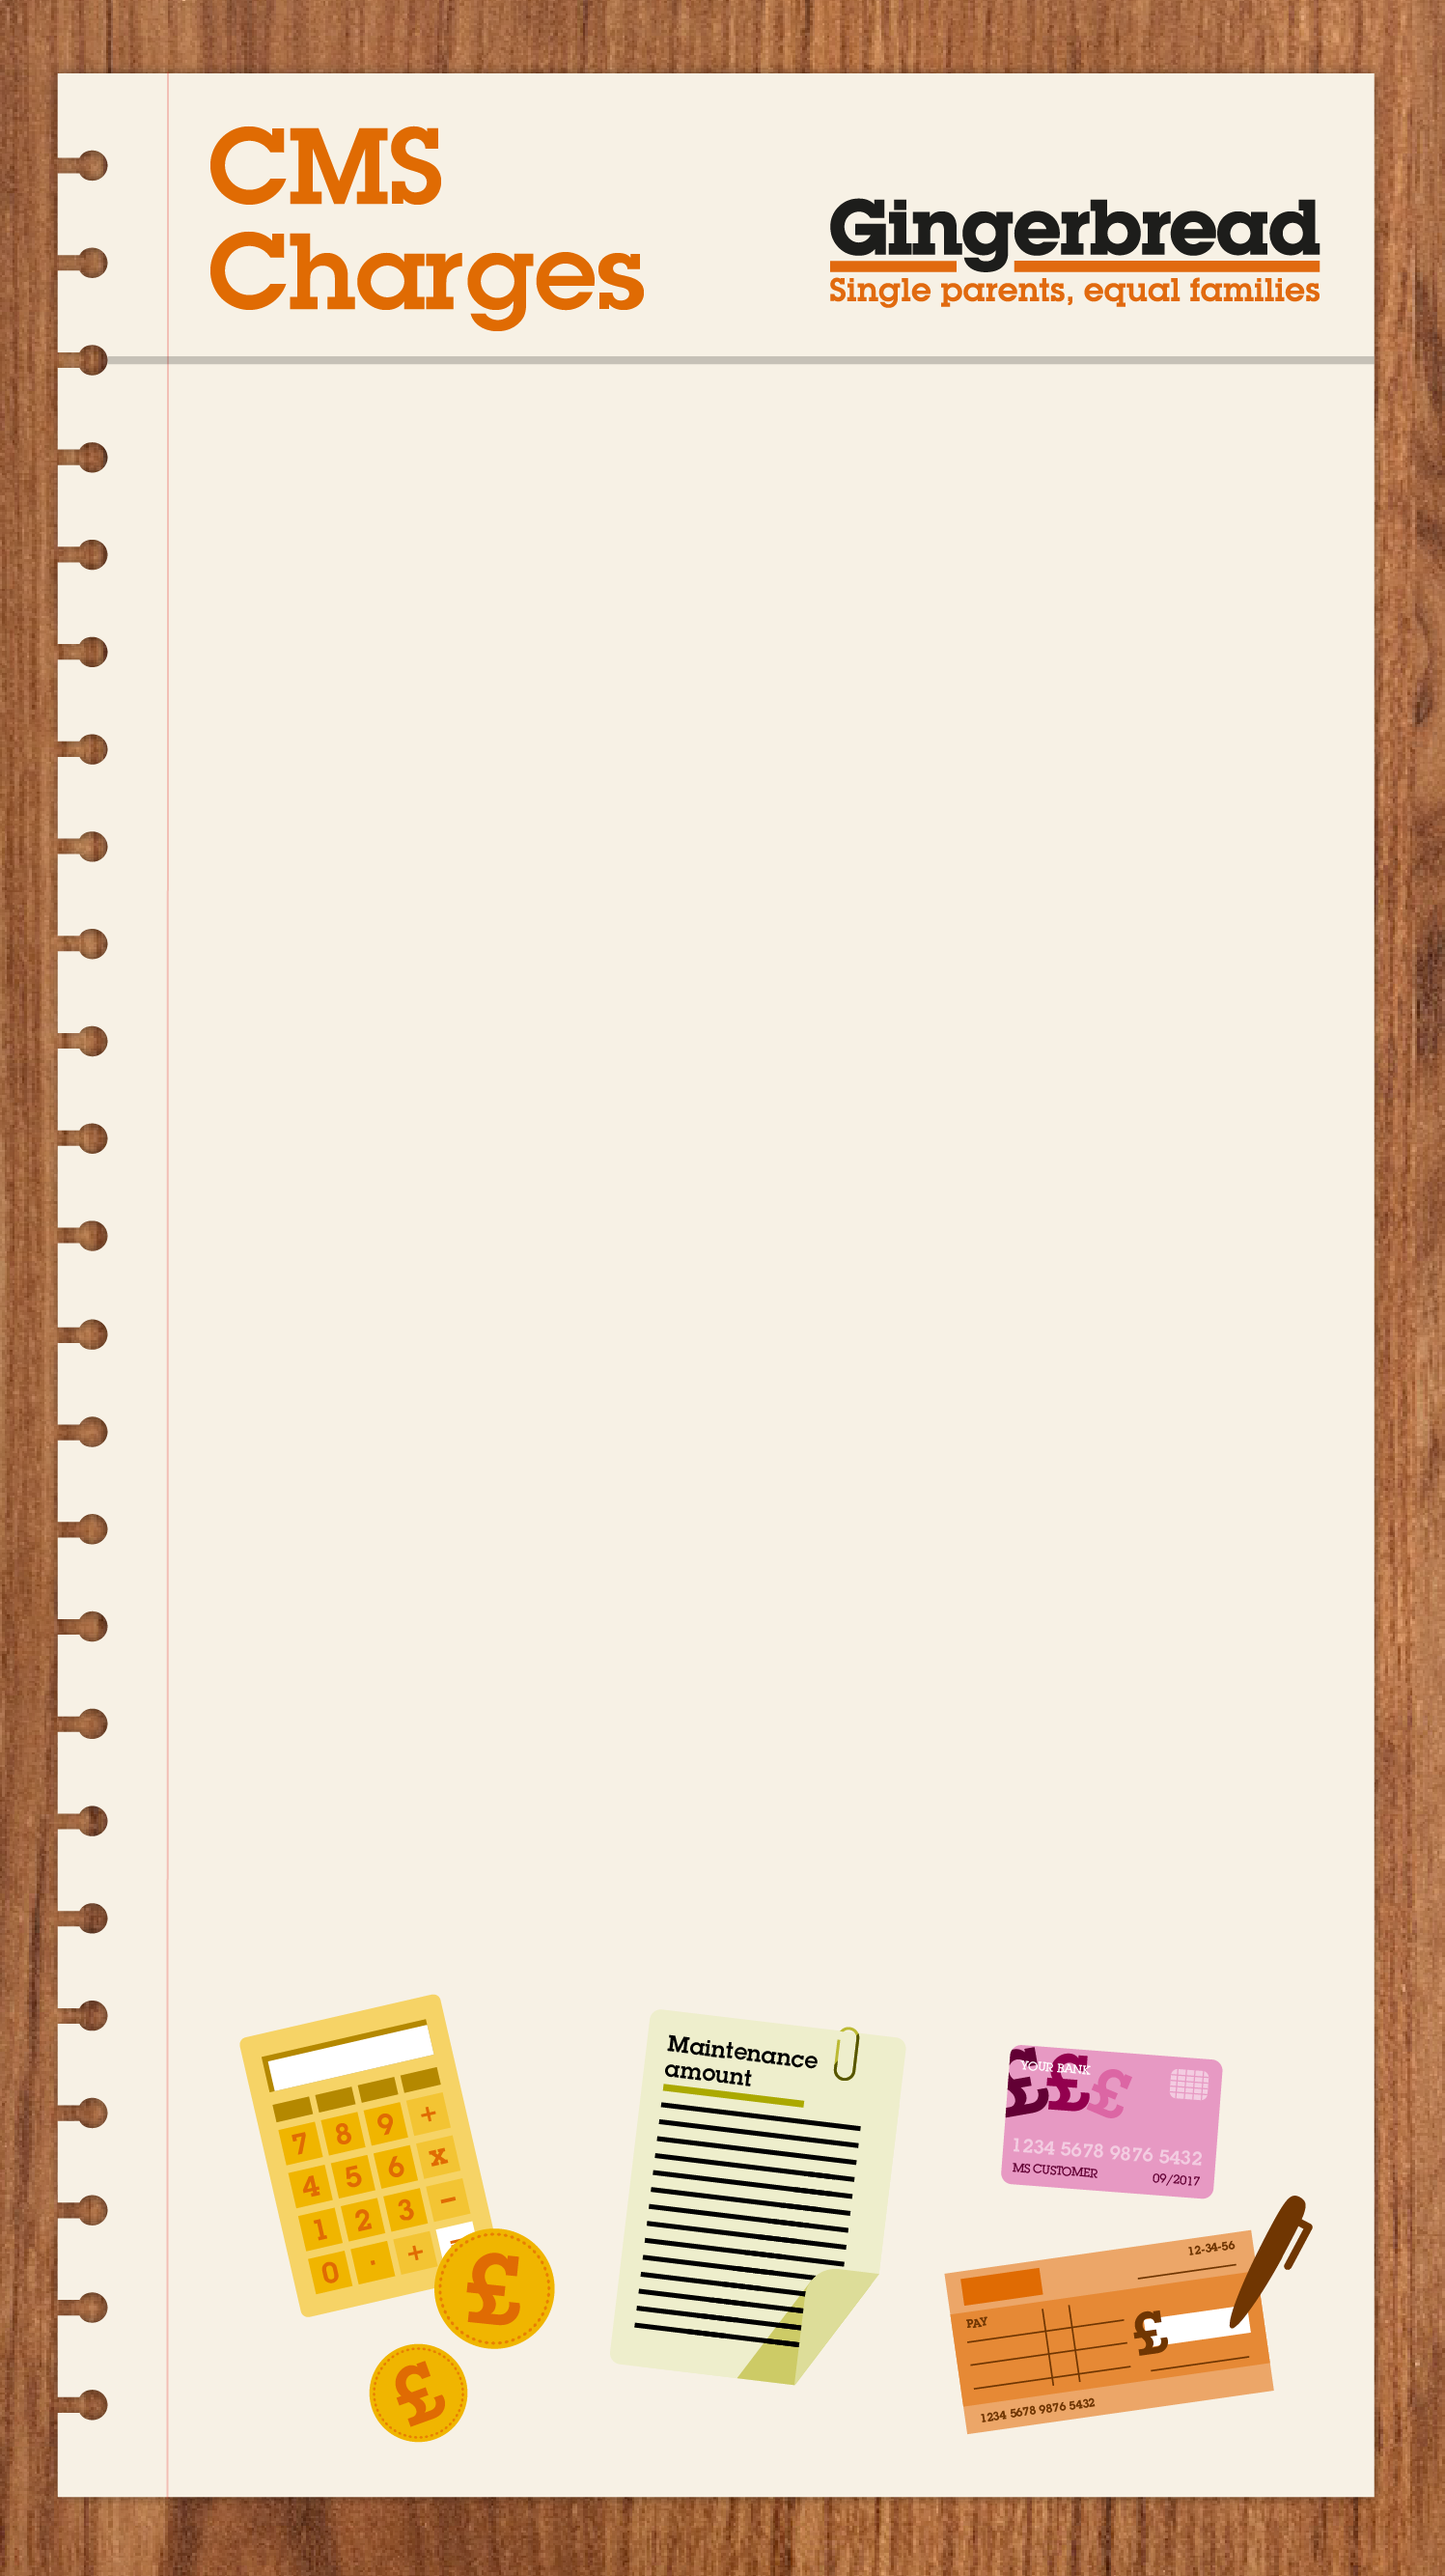
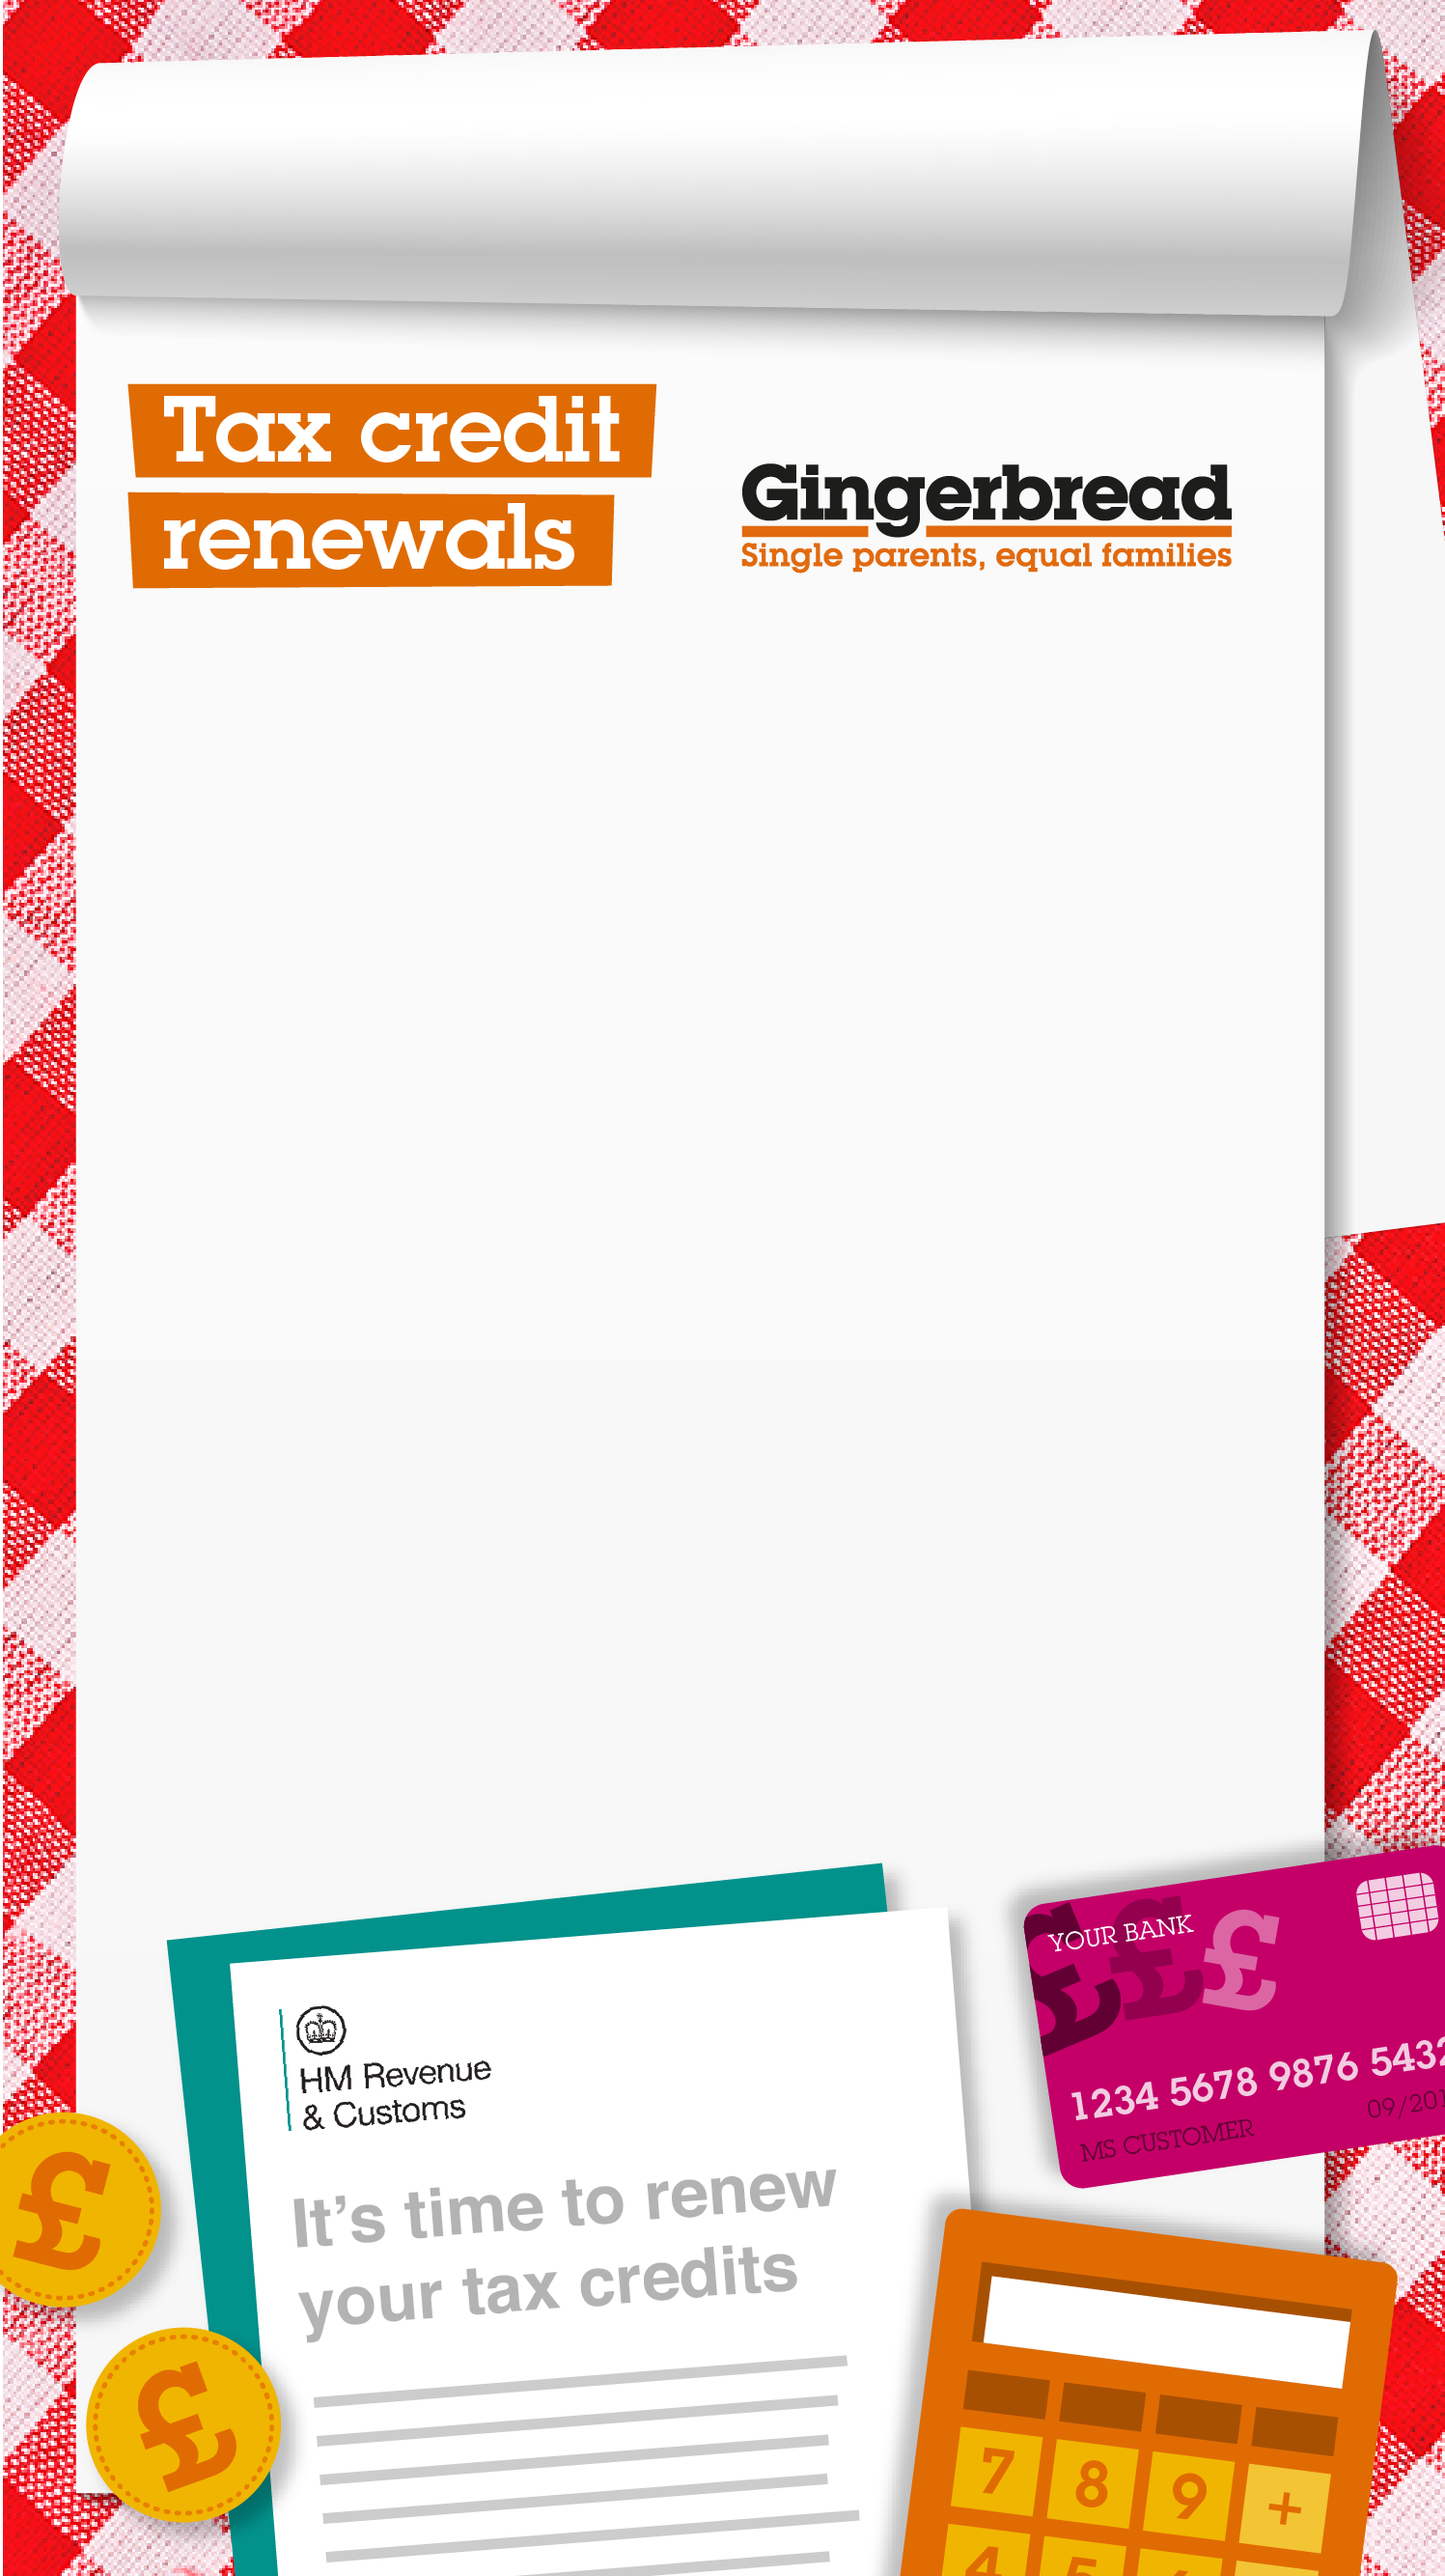
images and index

diff --git a/index.html b/index.html
@@ -10,13 +10,13 @@
       <style>
       @font-face {
     font-family: lubalin;
-    src: url(http://www.gingerbread.org.uk/gingerbread-interactive-image-2/fonts/lubalingraphstd-demi-webfont.ttf);
+    src: url(http://www.webdocumentary.co.uk/gingerbread/fonts/lubalingraphstd-demi-webfont.ttf);
 }
           h3 {font-family: "Arial";}
       
       </style>
   </head>
-  <body class="animate-in" style="background: url(http://www.gingerbread.org.uk/gingerbread-interactive-image-2/images/image1.png); background-size: cover; padding-bottom: 178%;">
+  <body class="animate-in" style="background: url(http://www.webdocumentary.co.uk/gingerbread/images/image1.png); background-size: cover; padding-bottom: 178%;">
     <div class="row">
       <div class="large-12 columns">
         
@@ -26,16 +26,15 @@
     <div class="row">
       <div class="large-12 columns">
         <div class="callout">
-          <h3><strong>The Child Maintenance Service (CMS) is the organisation parents use to arrange maintenance if an informal agreement isn't possible.</strong>
+          <h3>If you get tax credits you’ll receive a renewal pack from HMRC.</h3>
 
- </h3>
+            <h3>The pack should arrive by 27 June 2016.</h3>
             
-            <h3>Find out what the CMS will do for you, whether you have to pay an application fee and when other charges could apply.
+            <h3><strong>Act now to be sure to keep your tax credits.</strong></h3>
 
- </h3>
-            <p><a class="hvr-push" href="page2.html"><img src="http://www.webdocumentary.co.uk/gingerbread/buttons/start.png"></a></p>
+            <p><a class="hvr-push" href="page2.html"><img src="buttons/button_received_renewal.png"></a></p>
           
-          
+          <p><a class="hvr-push" href="page2.html"><img src="buttons/button_no_renewal.png"></a></p>
           
         </div>
       </div>
